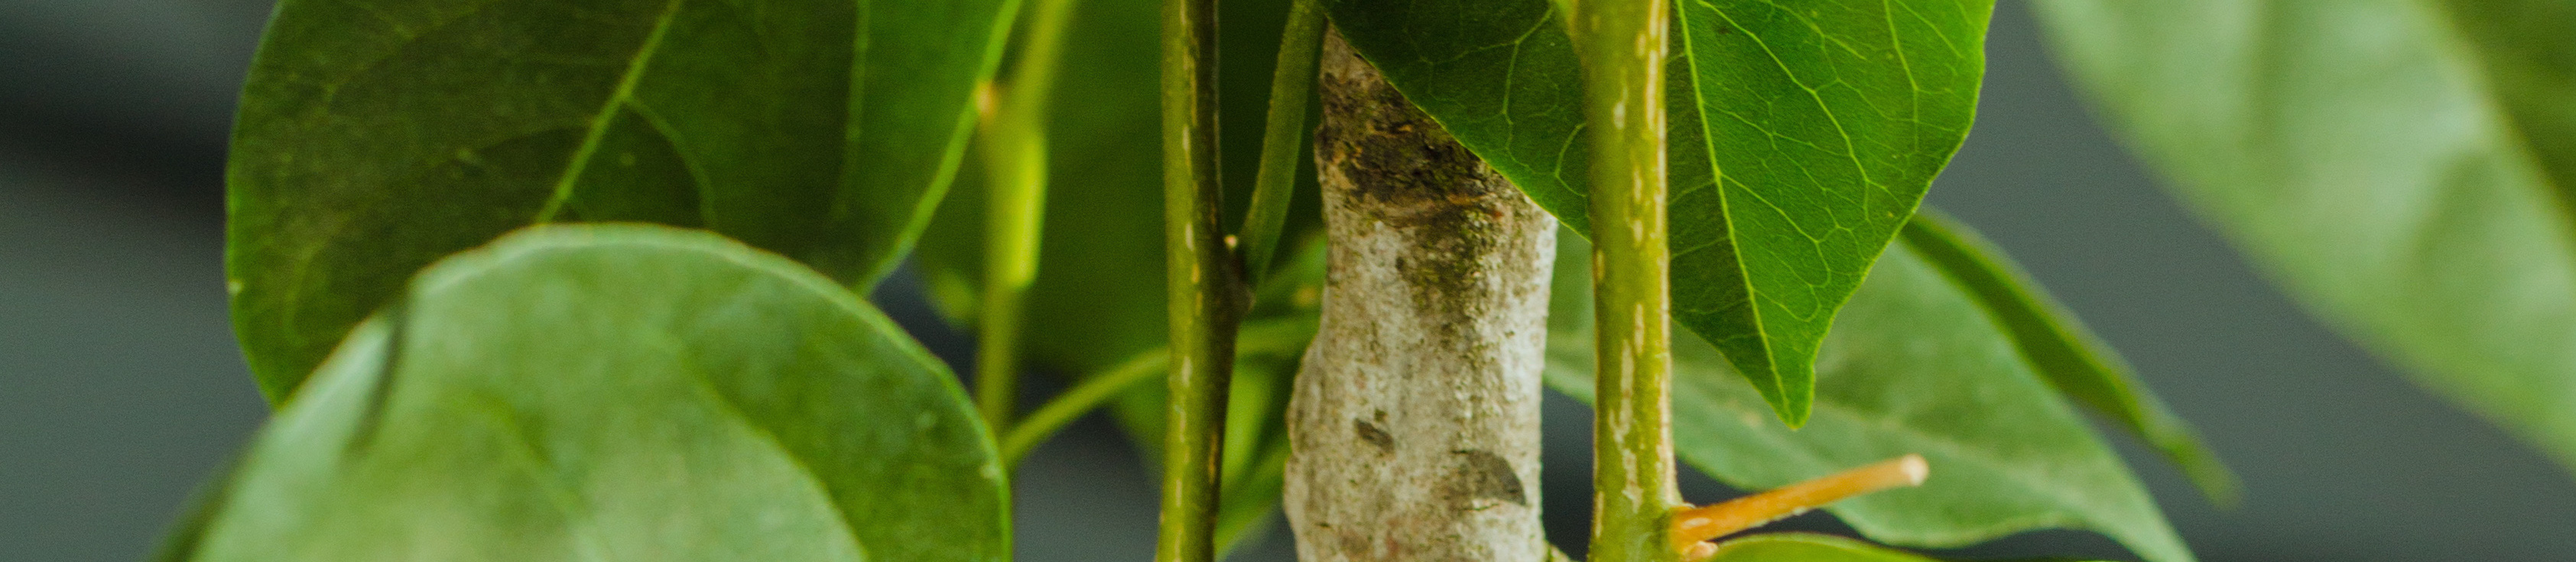
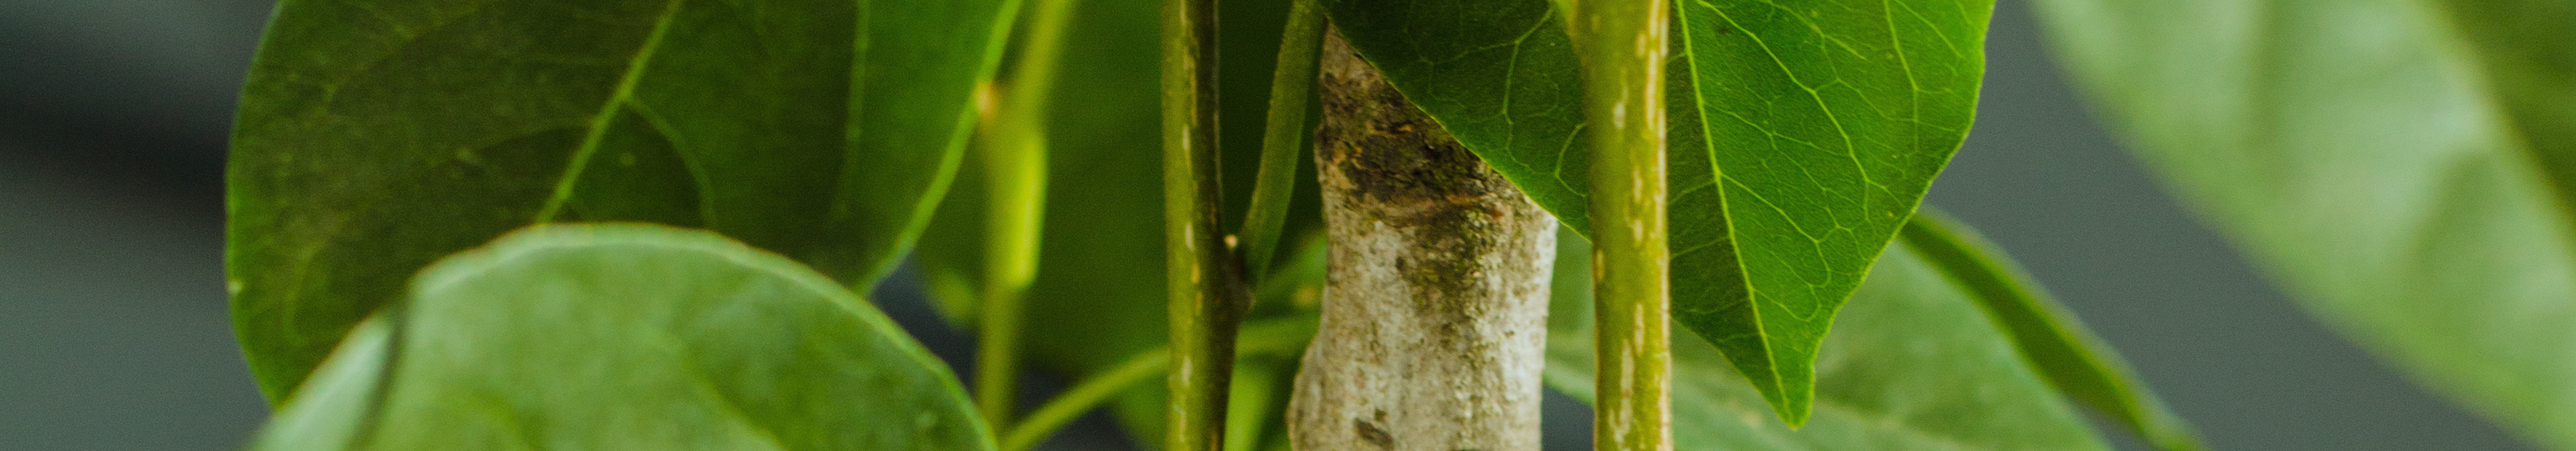
working on details

diff --git a/portafolio/website/static/website/styles.css b/portafolio/website/static/website/styles.css
@@ -90,7 +90,7 @@ h1 {
 
 /*Contact image and letter color*/
 .contact-image {
-    height: 22vh;
+    height: 22vw;
     background: url('images/leafs.jpg ');
     background-size: cover;
     position: relative;
